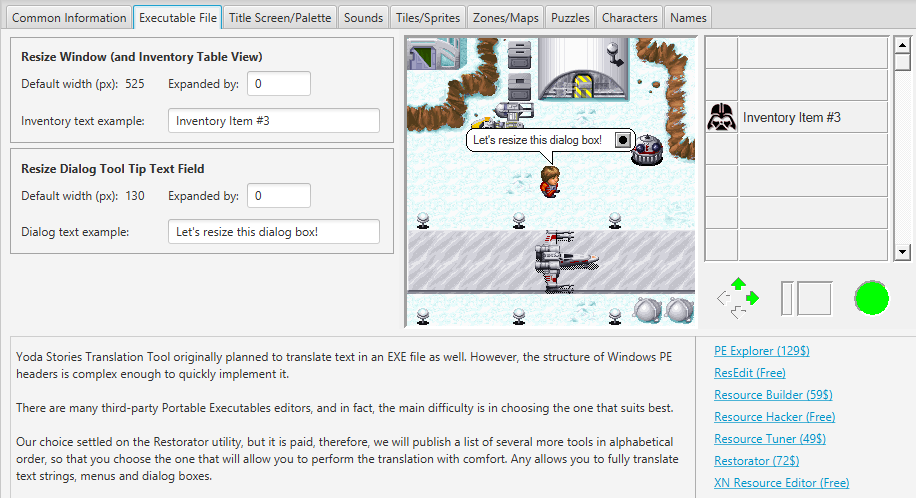
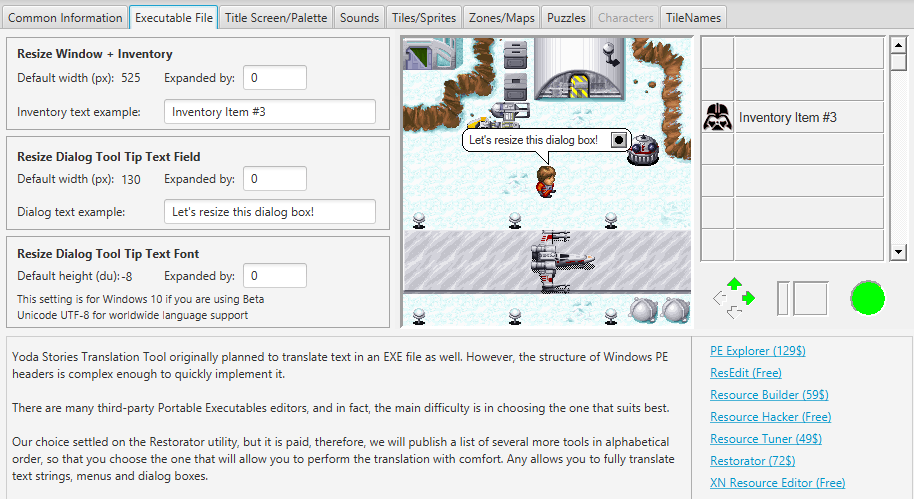
Change dialog font size documentation

Changed region(s): [[0.0, 0.0, 1.0, 1.0]]

diff --git a/documents/ru/exe-translation-guide.md b/documents/ru/exe-translation-guide.md
@@ -193,6 +193,41 @@ b8a2000000
 ```
 
 
+## Шрифт диалогов в игре
+
+Этот баг Windows 10 был обнаружен совершенно случайно.
+
+![](../images/windows-10-font.png)
+
+Он происходит, если в настройках региона системы включить "Beta: Use Unicode UTF-8 for worldwide language support".
+
+Внимание! Ни в коем случае не включайте у себя эту настройку. В моём случае пришлось исправлять в реестре,
+так как даже после перезагрузки не удавалось снять эту чёртову галочку!
+
+Если она у вас УЖЕ стоит, то попытайтесь снять здесь:
+
+Control Panel -> Region -> Administrative -> Change system locale...
+
+![](../images/windows-utf8.png)
+
+Если нет - то придётся менять значения в реестре, а это опасно поэтому даже не подскажу где искать.
+
+YSTT предлагает возможность поменять размер шрифта диалогового окна для тех случаев, если у вас эта галочка уже стоит.
+Или, если вам нравятся большие буквы. Достаточно увеличить высоту шрифта на 3 или 4, чтобы текст прекрасно читался.
+
+Если менять в HEX редакторе, то будет необходимо изменить в двух местах, найдя следующие данные:
+
+```
+5668900100005656566A F8 FF15
+
+0100006A006A006A006A F8 FF15
+```
+
+Одно значение чтобы, указать высоту шрифта для EDIT, второе используется для расчёта габаритов диалогового окна.
+
+Значение F8 на самом деле это -8, не пугайтесь, так тоже можно указывать высоту шрифта.
+
+
 ## Таймеры прокрутки текста
 
 `Не реализовано.`

diff --git a/documents/exe-translation-guide.md b/documents/exe-translation-guide.md
@@ -189,6 +189,40 @@ replace with:
 b8a2000000          
 ```
 
+## Dialogs font in the game
+   
+This Windows 10 bug was discovered completely by accident.
+
+![](../images/windows-10-font.png)
+
+It happens if you enable "Beta: Use Unicode UTF-8 for worldwide language support" in the system region settings.
+
+Attention! Do not under any circumstances enable this setting. In my case, I had to fix it in the registry,
+because even after the reboot it was not possible to remove this damn checkbox!
+
+If you ALREADY have it, then try to remove it here: 
+
+Control Panel -> Region -> Administrative -> Change system locale...
+
+![](../images/windows-utf8.png)
+
+If not, then you will have to change the values in the registry, and this is dangerous, so I won't even tell you where to look.
+
+YSTT offers the ability to change the font size of the dialog box if you already have this checkbox checked.
+Or if you like big letters. It is enough to increase the font height by 3 or 4 for the text to be perfectly readable.
+
+If you change in the HEX editor, you will need to change in two places, finding the following data: 
+
+```
+5668900100005656566A F8 FF15
+
+0100006A006A006A006A F8 FF15
+```
+
+One value is to specify the font height for EDIT control, the second is used to calculate the dimensions of the dialog box.
+
+The F8 value is actually -8, don't be alarmed, you can also specify the font height. 
+
 
 ## Text scrolling timers
 
